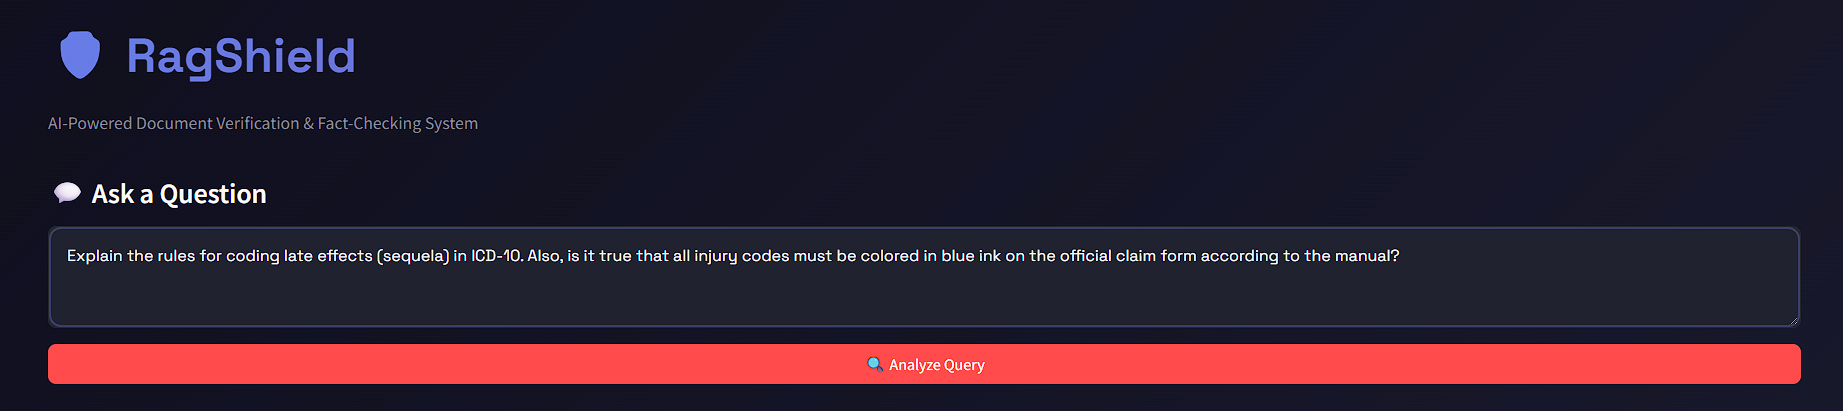
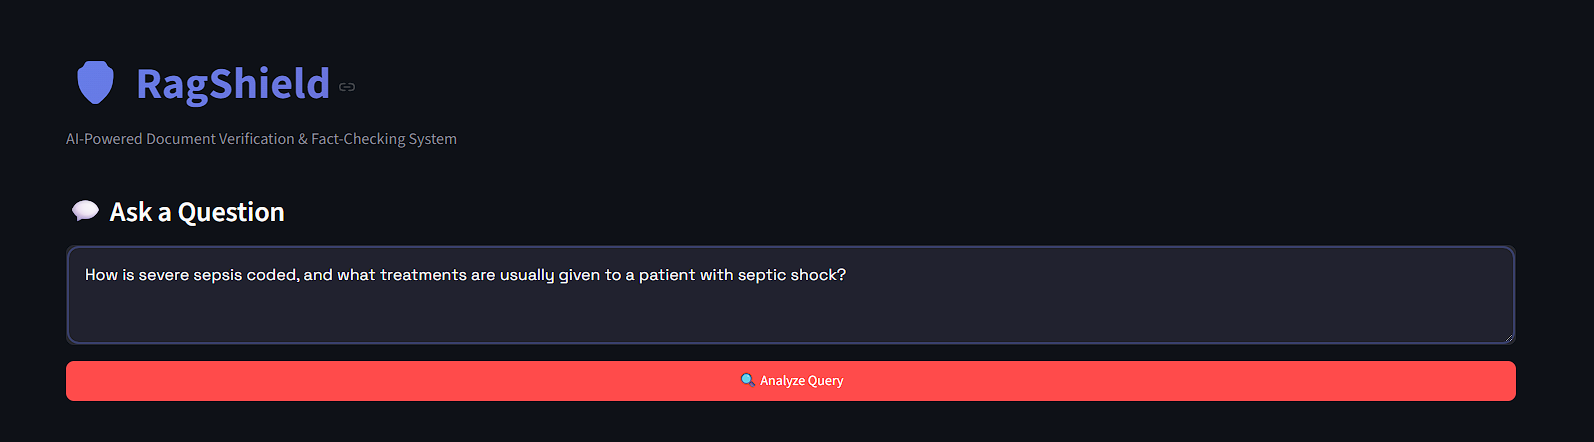
updated the images

diff --git a/README.md b/README.md
@@ -14,6 +14,10 @@ The point of the project is the verification layer, and every number in this REA
 
 ![RagShield query interface](images/demo_query.png)
 
+![An answer checked sentence by sentence](images/demo_response.png)
+
+*The question mixes a coding rule from the ICD-10-CM guidelines with septic-shock treatment, which the guidelines never cover. One coding sentence is verified and the rest are not verified. None of the treatment advice is verified, and its last sentence is flagged orange. Hovering a sentence shows its score and the passage behind it.*
+
 ---
 
 ## How it works
